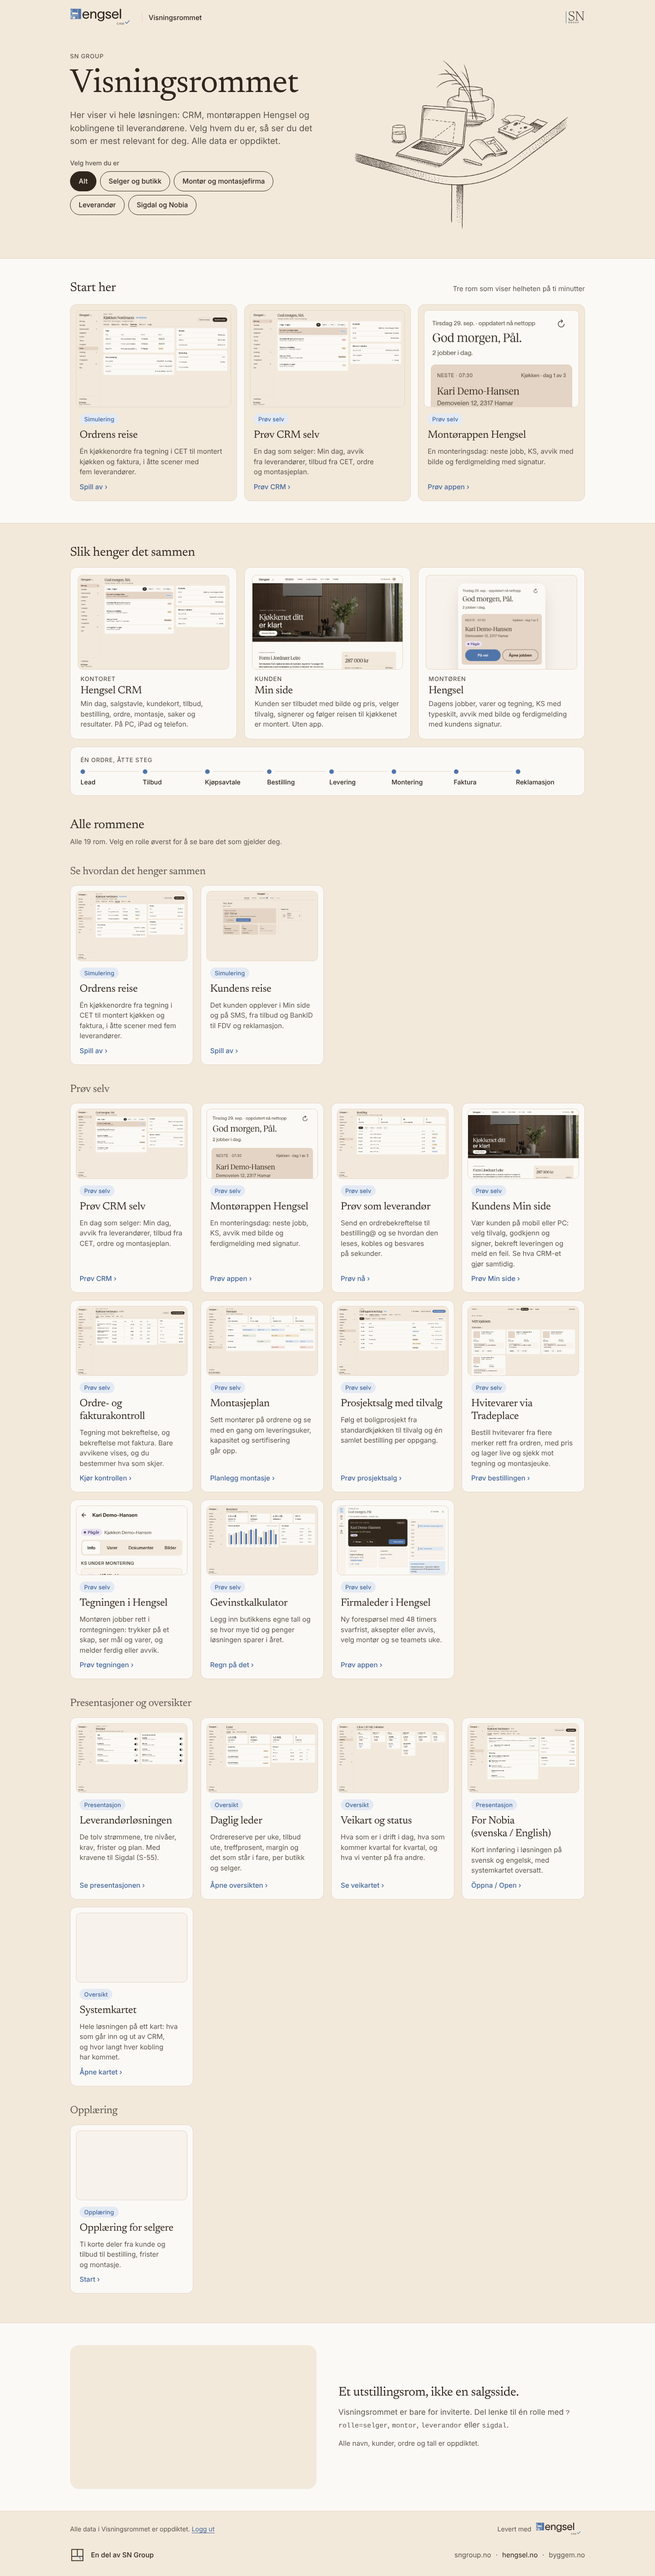
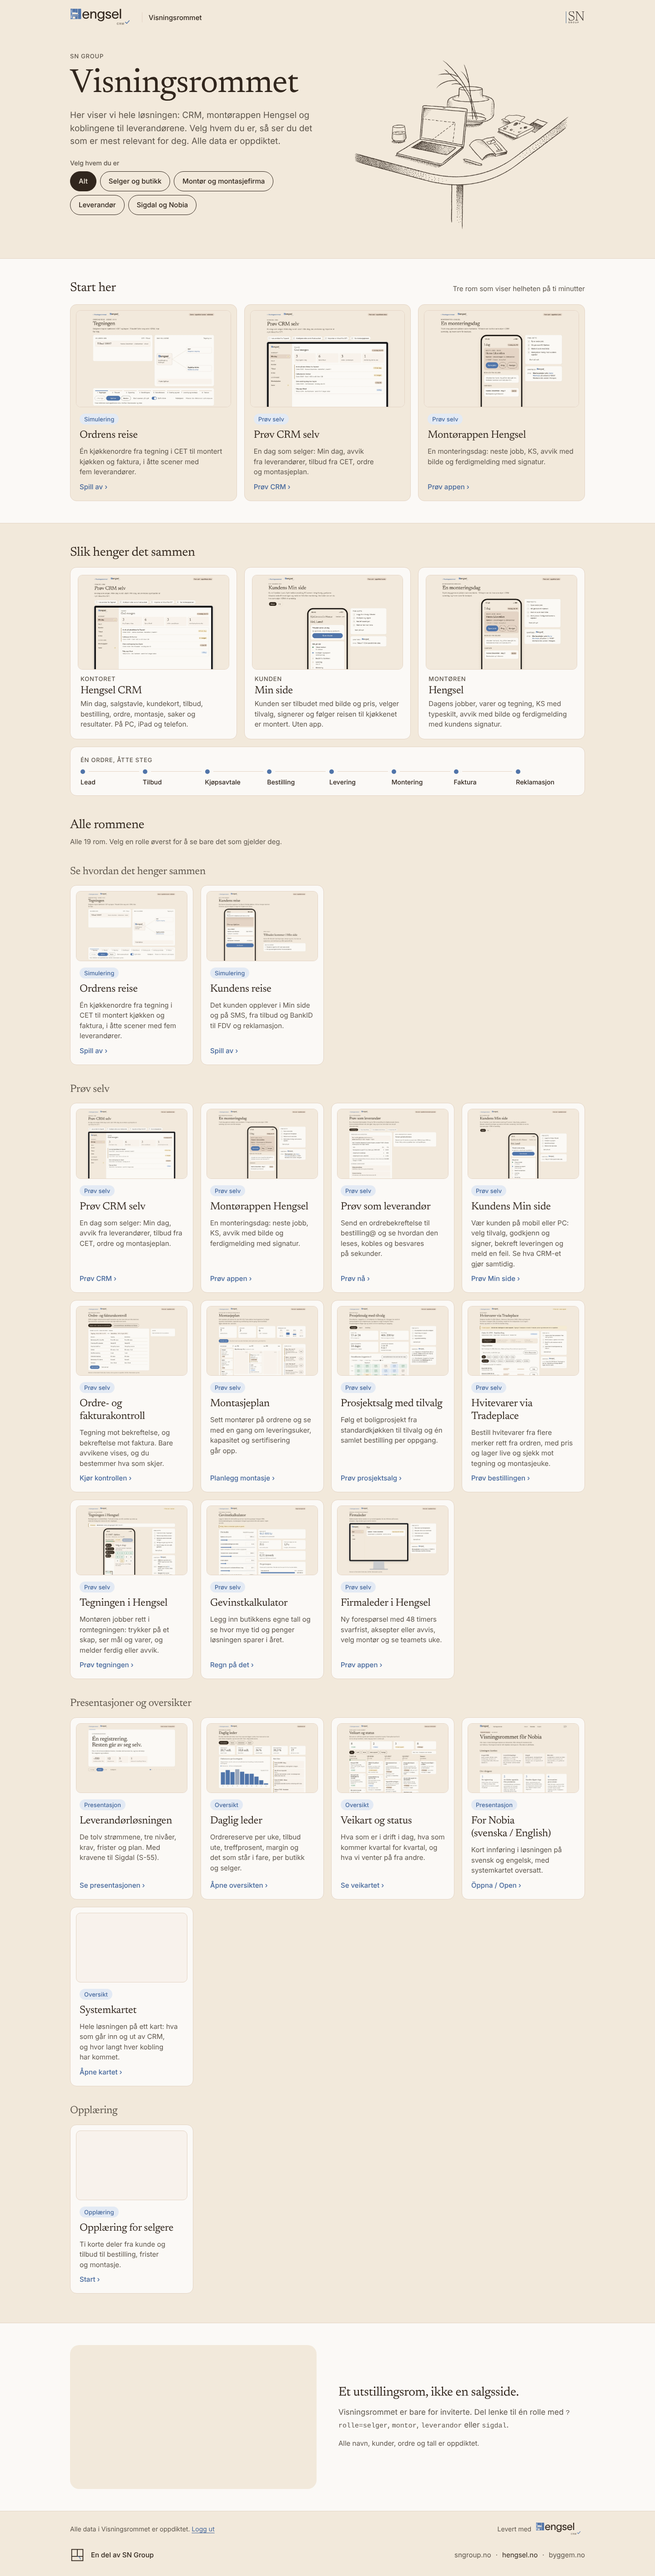
vis: romkortbilder fra rommene selv, og større CRM-skjerm i Studio Display
Skjermbildene fra hengsel.no viste det gamle dør-merket og «Studio Sigdal». Nå lager
scripts/skjermbilder-vis.mjs ett bilde per rom (1440 × 900 i lys modus, 16:10 øverst til
venstre, webp via sharp) i sites/vis/src/img/rom-*.webp, og forsiden («Start her», «Slik
henger det sammen» og alle romkortene) bruker dem. opplaering.webp (også med gammelt
merke) er erstattet. bygg.mjs henter ikke lenger bilder fra hengsel.no.

Prøv CRM: skjermflaten i Studio Display er 1180 × 740 og skaleres til rammens bredde
(ResizeObserver setter --s i side.js), så de fire nøkkeltallene står på én rad og alle
rader i Min dag er synlige. Under 901 px vises appen som før.

npm test, npm run skjermbilder:vis: grønt.

Claude-Session: https://claude.ai/code/session_01XUX8fkzkTEqWReZM1iEFk5

diff --git a/sites/vis/src/side.js b/sites/vis/src/side.js
@@ -6,27 +6,27 @@ var R=[
  ['leverandor','Leverandør','Hva vi ønsker fra dere, hvordan det kommer inn hos oss, og hva dere får tilbake.'],
  ['sigdal','Sigdal og Nobia','Hvordan butikkene jobber med Sigdal-ordrene, og hva som må til for at alt går av seg selv.']
 ];
-// b: skjermbilde fra hengsel.no (bygg.mjs kopierer det til dist/img/). Bytt til Hengsel CRM-skjermbilder der det finnes.
+// b: skjermbilde av rommet (sites/vis/src/img/rom-*.webp, lages av scripts/skjermbilder-vis.mjs)
 var C=[
- {u:'/reise/',b:'/img/ordre-og-montasje.webp',t:'Ordrens reise',type:'Simulering',p:'Én kjøkkenordre fra tegning i CET til montert kjøkken og faktura, i åtte scener med fem leverandører.',r:['selger','montor','leverandor','sigdal'],go:'Spill av'},
- {u:'/crm/',b:'/img/min-dag.webp',t:'Prøv CRM selv',type:'Prøv selv',p:'En dag som selger: Min dag, avvik fra leverandører, tilbud fra CET, ordre og montasjeplan.',r:['selger','sigdal'],go:'Prøv CRM'},
- {u:'/kunde/',b:'/img/kundeportalen.webp',t:'Kundens reise',type:'Simulering',p:'Det kunden opplever i Min side og på SMS, fra tilbud og BankID til FDV og reklamasjon.',r:['selger'],go:'Spill av'},
- {u:'/opplaering/',b:'/img/opplaering.webp',t:'Opplæring for selgere',type:'Opplæring',p:'Ti korte deler fra kunde og tilbud til bestilling, frister og montasje.',r:['selger'],go:'Start'},
- {u:'/montor/',b:'/img/hengsel-i-dag-a.webp',t:'Montørappen Hengsel',type:'Prøv selv',p:'En monteringsdag: neste jobb, KS, avvik med bilde og ferdigmelding med signatur.',r:['montor','selger'],go:'Prøv appen'},
- {u:'/levprov/',b:'/img/bestilling.webp',t:'Prøv som leverandør',type:'Prøv selv',p:'Send en ordrebekreftelse til bestilling@ og se hvordan den leses, kobles og besvares på sekunder.',r:['leverandor','sigdal'],go:'Prøv nå'},
- {u:'/minside/',b:'/img/kundeportalen-pc.webp',t:'Kundens Min side',type:'Prøv selv',p:'Vær kunden på mobil eller PC: velg tilvalg, godkjenn og signer, bekreft leveringen og meld en feil. Se hva CRM-et gjør samtidig.',r:['selger','sigdal'],go:'Prøv Min side'},
- {u:'/kontroll/',b:'/img/tilbudet.webp',t:'Ordre- og fakturakontroll',type:'Prøv selv',p:'Tegning mot bekreftelse, og bekreftelse mot faktura. Bare avvikene vises, og du bestemmer hva som skjer.',r:['selger','leverandor','sigdal'],go:'Kjør kontrollen'},
- {u:'/montasjeplan/',b:'/img/montasje.webp',t:'Montasjeplan',type:'Prøv selv',p:'Sett montører på ordrene og se med en gang om leveringsuker, kapasitet og sertifisering går opp.',r:['selger','montor'],go:'Planlegg montasje'},
- {u:'/prosjekt/',b:'/img/prosjektoppsett.webp',t:'Prosjektsalg med tilvalg',type:'Prøv selv',p:'Følg et boligprosjekt fra standardkjøkken til tilvalg og én samlet bestilling per oppgang.',r:['selger','sigdal'],go:'Prøv prosjektsalg'},
- {u:'/hvitevarer/',b:'/img/produkter-hos-kunden.webp',t:'Hvitevarer via Tradeplace',type:'Prøv selv',p:'Bestill hvitevarer fra flere merker rett fra ordren, med pris og lager live og sjekk mot tegning og montasjeuke.',r:['selger','leverandor'],go:'Prøv bestillingen'},
- {u:'/tegning/',b:'/img/hengsel-jobb-a.webp',t:'Tegningen i Hengsel',type:'Prøv selv',p:'Montøren jobber rett i romtegningen: trykker på et skap, ser mål og varer, og melder ferdig eller avvik.',r:['montor','selger'],go:'Prøv tegningen'},
- {u:'/gevinst/',b:'/img/resultater.webp',t:'Gevinstkalkulator',type:'Prøv selv',p:'Legg inn butikkens egne tall og se hvor mye tid og penger løsningen sparer i året.',r:['sigdal','selger'],go:'Regn på det'},
- {u:'/firmaleder/',b:'/img/hengsel-ipad.webp',t:'Firmaleder i Hengsel',type:'Prøv selv',p:'Ny forespørsel med 48 timers svarfrist, aksepter eller avvis, velg montør og se teamets uke.',r:['montor'],go:'Prøv appen'},
- {u:'/leverandor/',b:'/img/moduler.webp',t:'Leverandørløsningen',type:'Presentasjon',p:'De tolv strømmene, tre nivåer, krav, frister og plan. Med kravene til Sigdal (S-55).',r:['leverandor','sigdal'],go:'Se presentasjonen'},
- {u:'/leder/',b:'/img/leder.webp',t:'Daglig leder',type:'Oversikt',p:'Ordrereserve per uke, tilbud ute, treffprosent, margin og det som står i fare, per butikk og selger.',r:['selger','sigdal'],go:'Åpne oversikten'},
- {u:'/veikart/',b:'/img/salgstavla.webp',t:'Veikart og status',type:'Oversikt',p:'Hva som er i drift i dag, hva som kommer kvartal for kvartal, og hva vi venter på fra andre.',r:['selger','leverandor','sigdal'],go:'Se veikartet'},
- {u:'/sv/',b:'/img/signert.webp',t:'For Nobia (svenska / English)',type:'Presentasjon',p:'Kort innføring i løsningen på svensk og engelsk, med systemkartet oversatt.',r:['sigdal'],go:'Öppna / Open'},
- {u:'/system/',b:'/img/kundekortet.webp',t:'Systemkartet',type:'Oversikt',p:'Hele løsningen på ett kart: hva som går inn og ut av CRM, og hvor langt hver kobling har kommet.',r:['selger','leverandor','sigdal'],go:'Åpne kartet'}
+ {u:'/reise/',b:'/img/rom-reise.webp',t:'Ordrens reise',type:'Simulering',p:'Én kjøkkenordre fra tegning i CET til montert kjøkken og faktura, i åtte scener med fem leverandører.',r:['selger','montor','leverandor','sigdal'],go:'Spill av'},
+ {u:'/crm/',b:'/img/rom-crm.webp',t:'Prøv CRM selv',type:'Prøv selv',p:'En dag som selger: Min dag, avvik fra leverandører, tilbud fra CET, ordre og montasjeplan.',r:['selger','sigdal'],go:'Prøv CRM'},
+ {u:'/kunde/',b:'/img/rom-kunde.webp',t:'Kundens reise',type:'Simulering',p:'Det kunden opplever i Min side og på SMS, fra tilbud og BankID til FDV og reklamasjon.',r:['selger'],go:'Spill av'},
+ {u:'/opplaering/',b:'/img/rom-opplaering.webp',t:'Opplæring for selgere',type:'Opplæring',p:'Ti korte deler fra kunde og tilbud til bestilling, frister og montasje.',r:['selger'],go:'Start'},
+ {u:'/montor/',b:'/img/rom-montor.webp',t:'Montørappen Hengsel',type:'Prøv selv',p:'En monteringsdag: neste jobb, KS, avvik med bilde og ferdigmelding med signatur.',r:['montor','selger'],go:'Prøv appen'},
+ {u:'/levprov/',b:'/img/rom-levprov.webp',t:'Prøv som leverandør',type:'Prøv selv',p:'Send en ordrebekreftelse til bestilling@ og se hvordan den leses, kobles og besvares på sekunder.',r:['leverandor','sigdal'],go:'Prøv nå'},
+ {u:'/minside/',b:'/img/rom-minside.webp',t:'Kundens Min side',type:'Prøv selv',p:'Vær kunden på mobil eller PC: velg tilvalg, godkjenn og signer, bekreft leveringen og meld en feil. Se hva CRM-et gjør samtidig.',r:['selger','sigdal'],go:'Prøv Min side'},
+ {u:'/kontroll/',b:'/img/rom-kontroll.webp',t:'Ordre- og fakturakontroll',type:'Prøv selv',p:'Tegning mot bekreftelse, og bekreftelse mot faktura. Bare avvikene vises, og du bestemmer hva som skjer.',r:['selger','leverandor','sigdal'],go:'Kjør kontrollen'},
+ {u:'/montasjeplan/',b:'/img/rom-montasjeplan.webp',t:'Montasjeplan',type:'Prøv selv',p:'Sett montører på ordrene og se med en gang om leveringsuker, kapasitet og sertifisering går opp.',r:['selger','montor'],go:'Planlegg montasje'},
+ {u:'/prosjekt/',b:'/img/rom-prosjekt.webp',t:'Prosjektsalg med tilvalg',type:'Prøv selv',p:'Følg et boligprosjekt fra standardkjøkken til tilvalg og én samlet bestilling per oppgang.',r:['selger','sigdal'],go:'Prøv prosjektsalg'},
+ {u:'/hvitevarer/',b:'/img/rom-hvitevarer.webp',t:'Hvitevarer via Tradeplace',type:'Prøv selv',p:'Bestill hvitevarer fra flere merker rett fra ordren, med pris og lager live og sjekk mot tegning og montasjeuke.',r:['selger','leverandor'],go:'Prøv bestillingen'},
+ {u:'/tegning/',b:'/img/rom-tegning.webp',t:'Tegningen i Hengsel',type:'Prøv selv',p:'Montøren jobber rett i romtegningen: trykker på et skap, ser mål og varer, og melder ferdig eller avvik.',r:['montor','selger'],go:'Prøv tegningen'},
+ {u:'/gevinst/',b:'/img/rom-gevinst.webp',t:'Gevinstkalkulator',type:'Prøv selv',p:'Legg inn butikkens egne tall og se hvor mye tid og penger løsningen sparer i året.',r:['sigdal','selger'],go:'Regn på det'},
+ {u:'/firmaleder/',b:'/img/rom-firmaleder.webp',t:'Firmaleder i Hengsel',type:'Prøv selv',p:'Ny forespørsel med 48 timers svarfrist, aksepter eller avvis, velg montør og se teamets uke.',r:['montor'],go:'Prøv appen'},
+ {u:'/leverandor/',b:'/img/rom-leverandor.webp',t:'Leverandørløsningen',type:'Presentasjon',p:'De tolv strømmene, tre nivåer, krav, frister og plan. Med kravene til Sigdal (S-55).',r:['leverandor','sigdal'],go:'Se presentasjonen'},
+ {u:'/leder/',b:'/img/rom-leder.webp',t:'Daglig leder',type:'Oversikt',p:'Ordrereserve per uke, tilbud ute, treffprosent, margin og det som står i fare, per butikk og selger.',r:['selger','sigdal'],go:'Åpne oversikten'},
+ {u:'/veikart/',b:'/img/rom-veikart.webp',t:'Veikart og status',type:'Oversikt',p:'Hva som er i drift i dag, hva som kommer kvartal for kvartal, og hva vi venter på fra andre.',r:['selger','leverandor','sigdal'],go:'Se veikartet'},
+ {u:'/sv/',b:'/img/rom-sv.webp',t:'For Nobia (svenska / English)',type:'Presentasjon',p:'Kort innføring i løsningen på svensk og engelsk, med systemkartet oversatt.',r:['sigdal'],go:'Öppna / Open'},
+ {u:'/system/',b:'/img/rom-system.webp',t:'Systemkartet',type:'Oversikt',p:'Hele løsningen på ett kart: hva som går inn og ut av CRM, og hvor langt hver kobling har kommet.',r:['selger','leverandor','sigdal'],go:'Åpne kartet'}
 ];
 var cur='alle';
 function finnes(k){return R.some(function(x){return x[0]===k})}

diff --git a/sites/vis/src/index.html b/sites/vis/src/index.html
@@ -55,7 +55,6 @@ h3{font:400 1.45rem/1.2 var(--serif);letter-spacing:-.015em;margin:40px 0 16px;c
 .flate .t{display:grid;gap:4px;padding:0 6px}
 .bilde{aspect-ratio:16/10;border-radius:10px;overflow:hidden;border:1px solid var(--line);background:var(--soft);display:flex;justify-content:center;align-items:flex-start}
 .bilde img{width:100%;height:100%;object-fit:cover;object-position:top left;display:block}
-.bilde.tlf img{width:58%;height:auto;margin-top:18px;border-radius:14px 14px 0 0;box-shadow:0 1px 2px rgba(49,38,29,.06),0 12px 40px -12px rgba(49,38,29,.22)}
 .ktittel{font:400 1.45rem/1.2 var(--serif);letter-spacing:-.015em;text-wrap:balance}
 .flate p,.rom p{margin:0;color:var(--muted);font-size:15px;line-height:1.5;text-wrap:pretty}
 .kjede{display:grid;gap:12px}
@@ -141,15 +140,15 @@ footer .inner{padding-block:24px;display:flex;flex-direction:column;gap:20px}
       <h2 id="sammen">Slik henger det sammen</h2>
       <div class="tre">
         <div class="card flate">
-          <div class="bilde"><img src="/img/min-dag.webp" alt="Hengsel CRM: Min dag" width="1600" height="1000" loading="lazy"></div>
+          <div class="bilde"><img src="/img/rom-crm.webp" alt="Prøv CRM selv: Min dag i Hengsel CRM" width="1600" height="1000" loading="lazy"></div>
           <div class="t"><span class="eyebrow">Kontoret</span><span class="ktittel">Hengsel CRM</span><p>Min dag, salgstavle, kundekort, tilbud, bestilling, ordre, montasje, saker og resultater. På PC, iPad og telefon.</p></div>
         </div>
         <div class="card flate">
-          <div class="bilde"><img src="/img/kundeportalen-pc.webp" alt="Min side på PC" width="1600" height="1000" loading="lazy"></div>
+          <div class="bilde"><img src="/img/rom-minside.webp" alt="Kundens Min side" width="1600" height="1000" loading="lazy"></div>
           <div class="t"><span class="eyebrow">Kunden</span><span class="ktittel">Min side</span><p>Kunden ser tilbudet med bilde og pris, velger tilvalg, signerer og følger reisen til kjøkkenet er montert. Uten app.</p></div>
         </div>
         <div class="card flate">
-          <div class="bilde tlf"><img src="/img/hengsel-i-dag-a.webp" alt="Hengsel: I dag" loading="lazy"></div>
+          <div class="bilde"><img src="/img/rom-montor.webp" alt="Montørappen Hengsel: I dag" width="1600" height="1000" loading="lazy"></div>
           <div class="t"><span class="eyebrow">Montøren</span><span class="ktittel">Hengsel</span><p>Dagens jobber, varer og tegning, KS med typeskilt, avvik med bilde og ferdigmelding med kundens signatur.</p></div>
         </div>
       </div>

diff --git a/sites/vis/src/crm/index.html b/sites/vis/src/crm/index.html
@@ -27,6 +27,14 @@
 .guide span.d i::before{content:"✓"}
 /* CRM-skjermen */
 .app{display:grid;grid-template-columns:232px minmax(0,1fr);background:var(--card);overflow:auto}
+/* Studio Display: skjermflaten er 1180 × 740 og skaleres ned til rammens bredde (--s settes i side.js),
+   så fire nøkkeltall står på én rad og hele Min dag er synlig. Under 901 px vises appen i naturlig størrelse. */
+.pc-ramme{width:100%}
+@media (min-width:901px){
+  .pc-ramme>.skjermkant>.skjerm{aspect-ratio:1180/740;overflow:hidden;position:relative}
+  .skjerm>.app{position:absolute;top:0;left:0;width:1180px;height:740px;transform-origin:0 0;transform:scale(var(--s,1));grid-template-rows:minmax(0,1fr);overflow:hidden}
+  .skjerm>.app>.main{overflow:auto;min-height:0}
+}
 .side{background:var(--bg);border-right:1px solid var(--line);padding:20px 12px;display:grid;align-content:start;gap:2px}
 .side .brand{padding:2px 12px 16px;line-height:1}
 .side .grp{padding:14px 12px 6px}
@@ -95,10 +103,10 @@ tr.new td{animation:fl .6s var(--ease)}
     <span data-k="cet"><i></i>Importer et tilbud fra CET</span>
     <span data-k="plan"><i></i>Se montasjeplanen</span>
   </div>
-  <div class="pc-ramme"><div class="skjermkant"><div class="app">
+  <div class="pc-ramme"><div class="skjermkant"><div class="skjerm"><div class="app">
     <nav class="side" id="side" aria-label="Meny"></nav>
     <main class="main" id="main"></main>
-  </div></div><span class="stang" aria-hidden="true"></span><span class="fot" aria-hidden="true"></span></div>
+  </div></div></div><span class="stang" aria-hidden="true"></span><span class="fot" aria-hidden="true"></span></div>
   <p class="foot">Demoen er ikke koblet til ekte data. Skrifter: Newsreader og Inter.</p>
 </div>
 <div class="toast" id="toast" role="status"></div>

diff --git a/sites/vis/src/crm/side.js b/sites/vis/src/crm/side.js
@@ -65,4 +65,7 @@ saker:function(){var r='';if(S.saker.tap)r+=li('Avvik på bekreftelse fra Tapwel
 };
 function render(){side();V[S.v]()}
 render();
+// Studio Display: skaler 1180 × 740-flaten til rammens bredde
+var sk=document.querySelector('.pc-ramme>.skjermkant>.skjerm');
+if(sk&&window.ResizeObserver){new ResizeObserver(function(){sk.style.setProperty('--s',(sk.clientWidth/1180).toFixed(4))}).observe(sk)}
 })();
